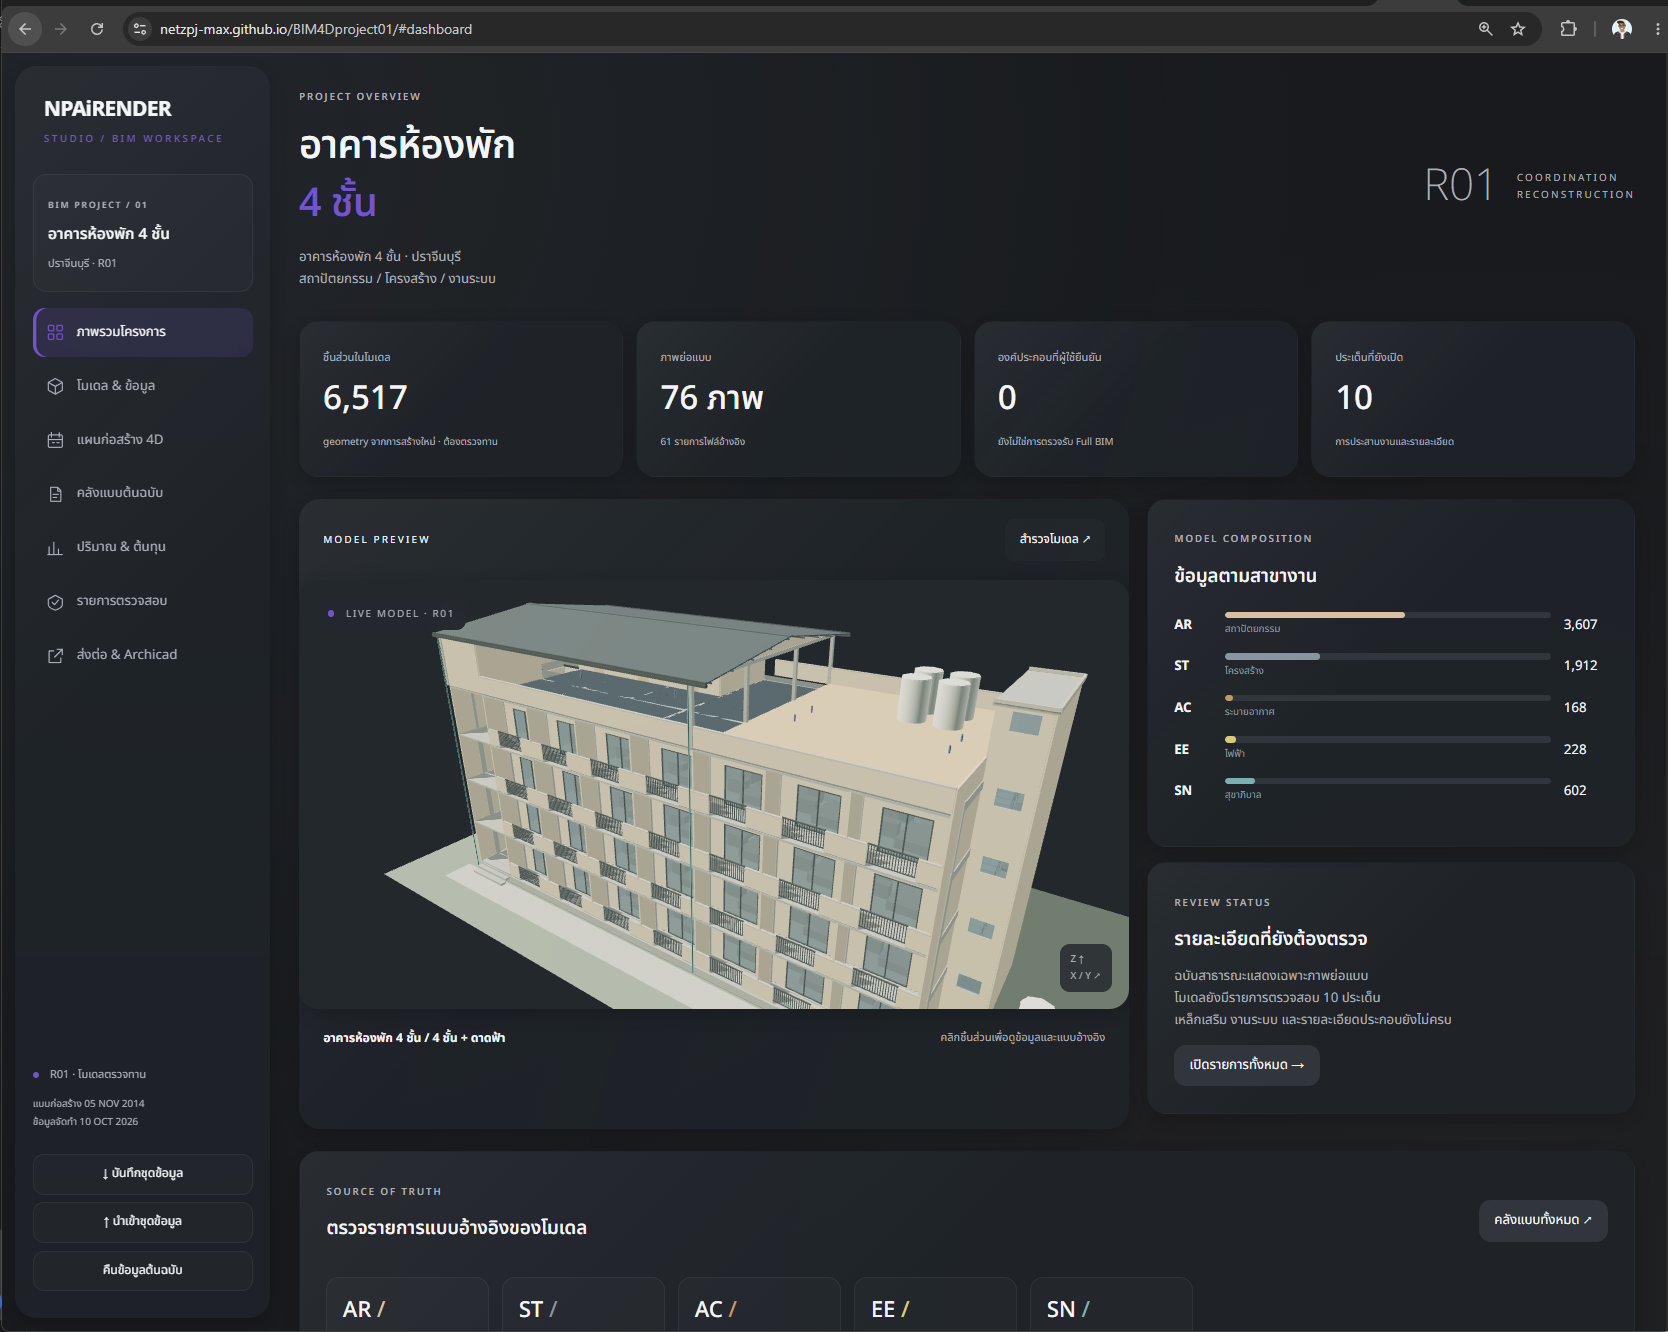
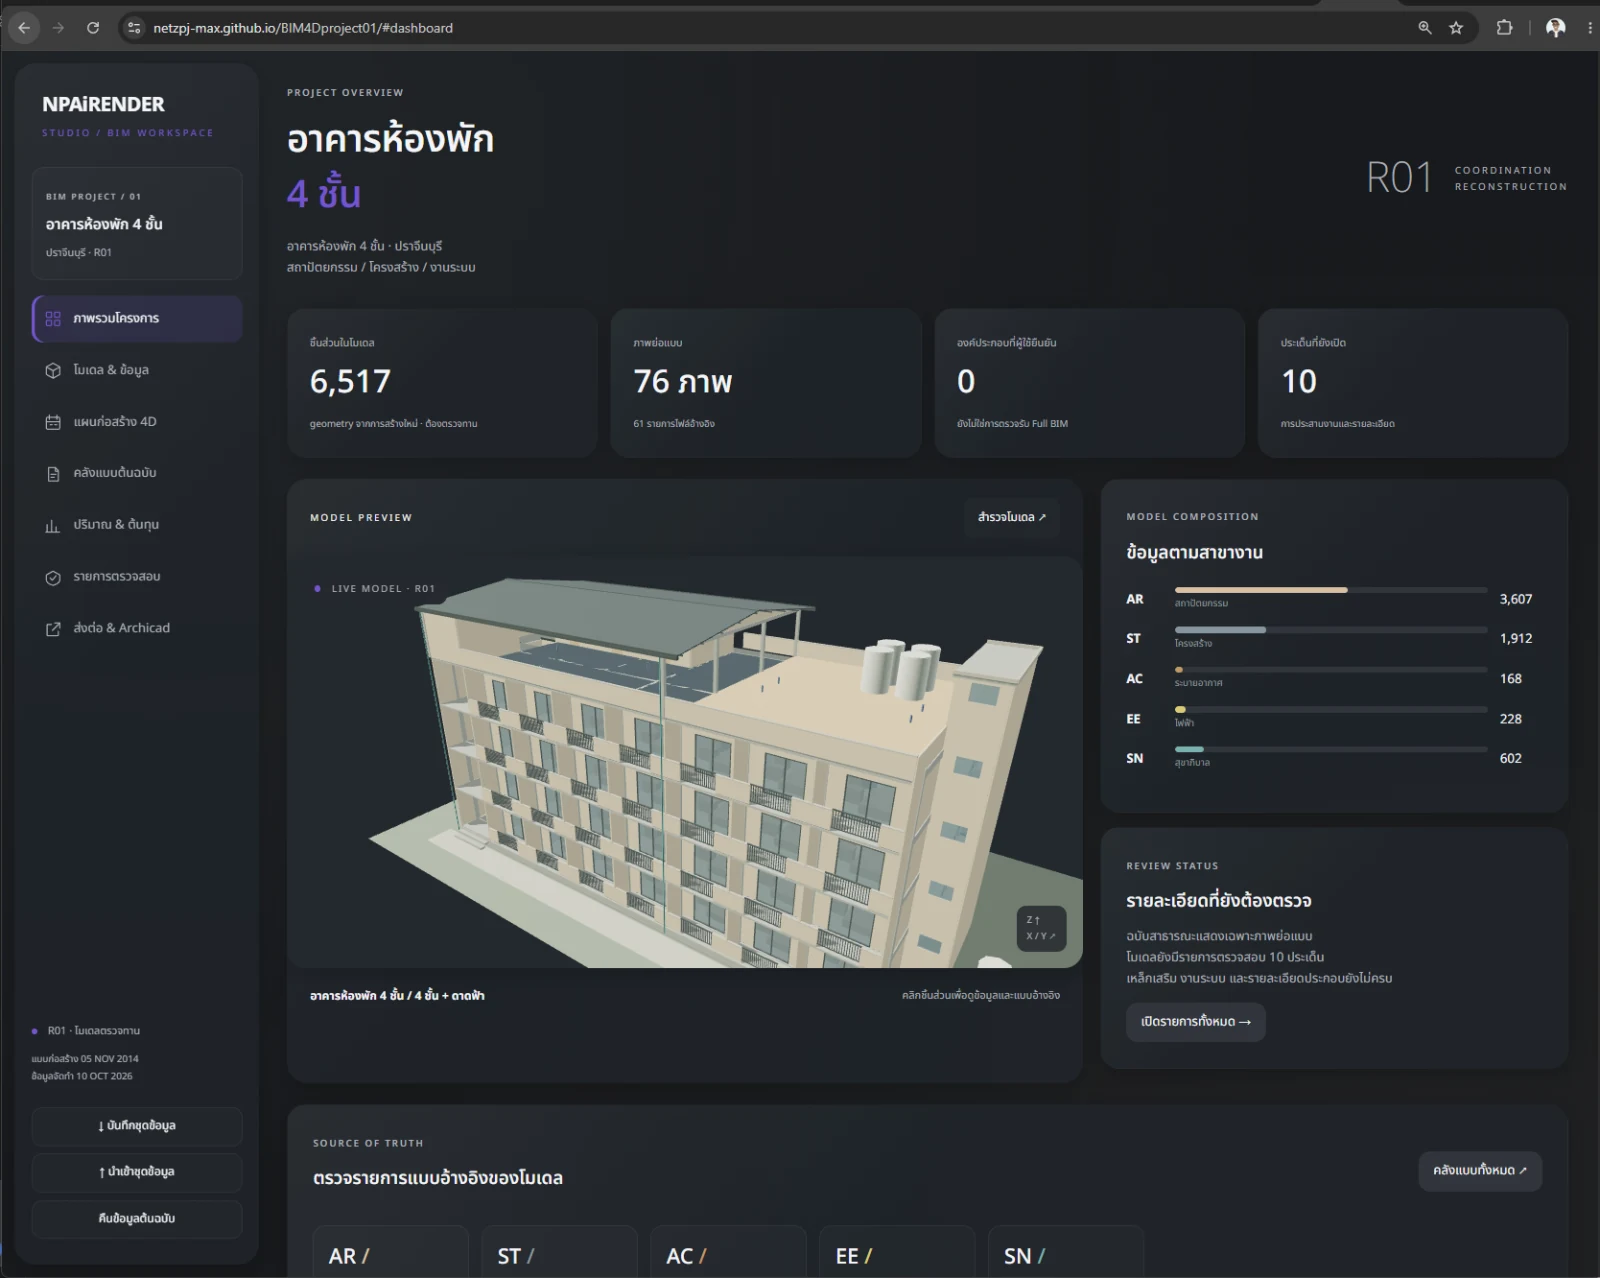
Load lightweight hero previews before full-resolution examples

Changed region(s): [[0.1875, 0.1831, 0.2188, 0.2136]]

diff --git a/index.html b/index.html
@@ -20,10 +20,10 @@ dialog{border:1px solid var(--line);border-radius:24px;padding:0;width:min(880px
 <div class="showcase-heading"><span>FROM DRAWINGS TO REAL WORK</span><span data-showcase-counter>01 / 02</span></div>
 <div class="showcase-stage">
 <figure data-showcase-slide data-title="จากภาพอ้างอิง สู่แบบ CAD" data-description="เปรียบเทียบภาพแปลนกับแบบ CAD ที่เปิดตรวจและแก้ไขต่อได้">
-<img src="assets/hero-cad-example.webp" alt="ภาพแปลนบ้านอ้างอิงด้านซ้าย เทียบกับแบบ CAD ที่เปิดใน DWG TrueView ด้านขวา" width="2559" height="1393" fetchpriority="high" decoding="async">
+<img src="assets/hero-cad-example.webp" data-full-src="assets/hero-cad-full.webp" alt="ภาพแปลนบ้านอ้างอิงด้านซ้าย เทียบกับแบบ CAD ที่เปิดใน DWG TrueView ด้านขวา" width="2559" height="1393" fetchpriority="high" decoding="async">
 </figure>
 <figure data-showcase-slide data-title="จากชุดแบบ สู่เว็บดูโมเดล BIM 4D" data-description="ตัวอย่างโมเดลอาคารและแดชบอร์ดที่สร้างด้วย AI สำหรับเปิดดูและตรวจทานข้อมูล" hidden>
-<img src="assets/hero-bim-example.webp" alt="ตัวอย่างเว็บ BIM อาคารห้องพัก 4 ชั้น พร้อมโมเดล 3D และแดชบอร์ดข้อมูลโครงการ" width="1668" height="1332" decoding="async">
+<img src="assets/hero-bim-example.webp" data-full-src="assets/hero-bim-full.webp" alt="ตัวอย่างเว็บ BIM อาคารห้องพัก 4 ชั้น พร้อมโมเดล 3D และแดชบอร์ดข้อมูลโครงการ" width="1668" height="1332" decoding="async">
 </figure>
 <button type="button" class="showcase-expand" data-showcase-expand hidden>ขยายภาพ ↗</button>
 </div>

diff --git a/hero-slideshow.js b/hero-slideshow.js
@@ -23,7 +23,7 @@ if(carousel){
  carousel.addEventListener('focusout',event=>{if(!carousel.contains(event.relatedTarget)){interacting=false;start();}});
  document.addEventListener('visibilitychange',start);
  motion.addEventListener('change',event=>{if(event.matches){paused=true;pauseLabel();start();}});
- expand.addEventListener('click',()=>{const image=slides[index].querySelector('img');fullImage.src=image.src;fullImage.alt=image.alt;dialogTitle.textContent=slides[index].dataset.title;dialog.showModal();document.body.classList.add('modal-open');stop();});
+ expand.addEventListener('click',()=>{const image=slides[index].querySelector('img');fullImage.src=image.dataset.fullSrc||image.src;fullImage.alt=image.alt;dialogTitle.textContent=slides[index].dataset.title;dialog.showModal();document.body.classList.add('modal-open');stop();});
  dialog.querySelector('[data-showcase-close]').addEventListener('click',()=>dialog.close());
  dialog.addEventListener('click',event=>{if(event.target===dialog){const rect=dialog.getBoundingClientRect();if(event.clientX<rect.left||event.clientX>rect.right||event.clientY<rect.top||event.clientY>rect.bottom)dialog.close();}});
  dialog.addEventListener('close',()=>{document.body.classList.remove('modal-open');expand.focus();start();});

diff --git a/README.md b/README.md
@@ -34,4 +34,4 @@ Form data is not persisted in browser storage and is cleared on closing the dial
 No Supabase authentication, payment webhook, provider secret or protected course content is deployed here. Real lesson access remains at https://app.npairender.com/academy/.
 ## Hero slideshow
 
-The Hero uses the two instructor-supplied CAD and BIM screenshots. Lossless WebP assets retain the original dimensions and decoded pixel data. Images use contain sizing, with a full-image dialog for detail. hero-slideshow.js provides previous/next, direct selectors, keyboard arrows, pause/play, and a 7-second rotation. Automatic rotation is paused for reduced-motion preferences, hidden tabs, interactions and the expanded image. The first image remains visible without JavaScript. Offer pricing/deadline and registration modules are unchanged.
+The Hero uses the two instructor-supplied CAD and BIM screenshots. Optimized preview images load in the slideshow; the full-image dialog loads separate lossless WebP assets that retain the original dimensions and decoded pixel data. Images use contain sizing, with a full-image dialog for detail. hero-slideshow.js provides previous/next, direct selectors, keyboard arrows, pause/play, and a 7-second rotation. Automatic rotation is paused for reduced-motion preferences, hidden tabs, interactions and the expanded image. The first image remains visible without JavaScript. Offer pricing/deadline and registration modules are unchanged.
